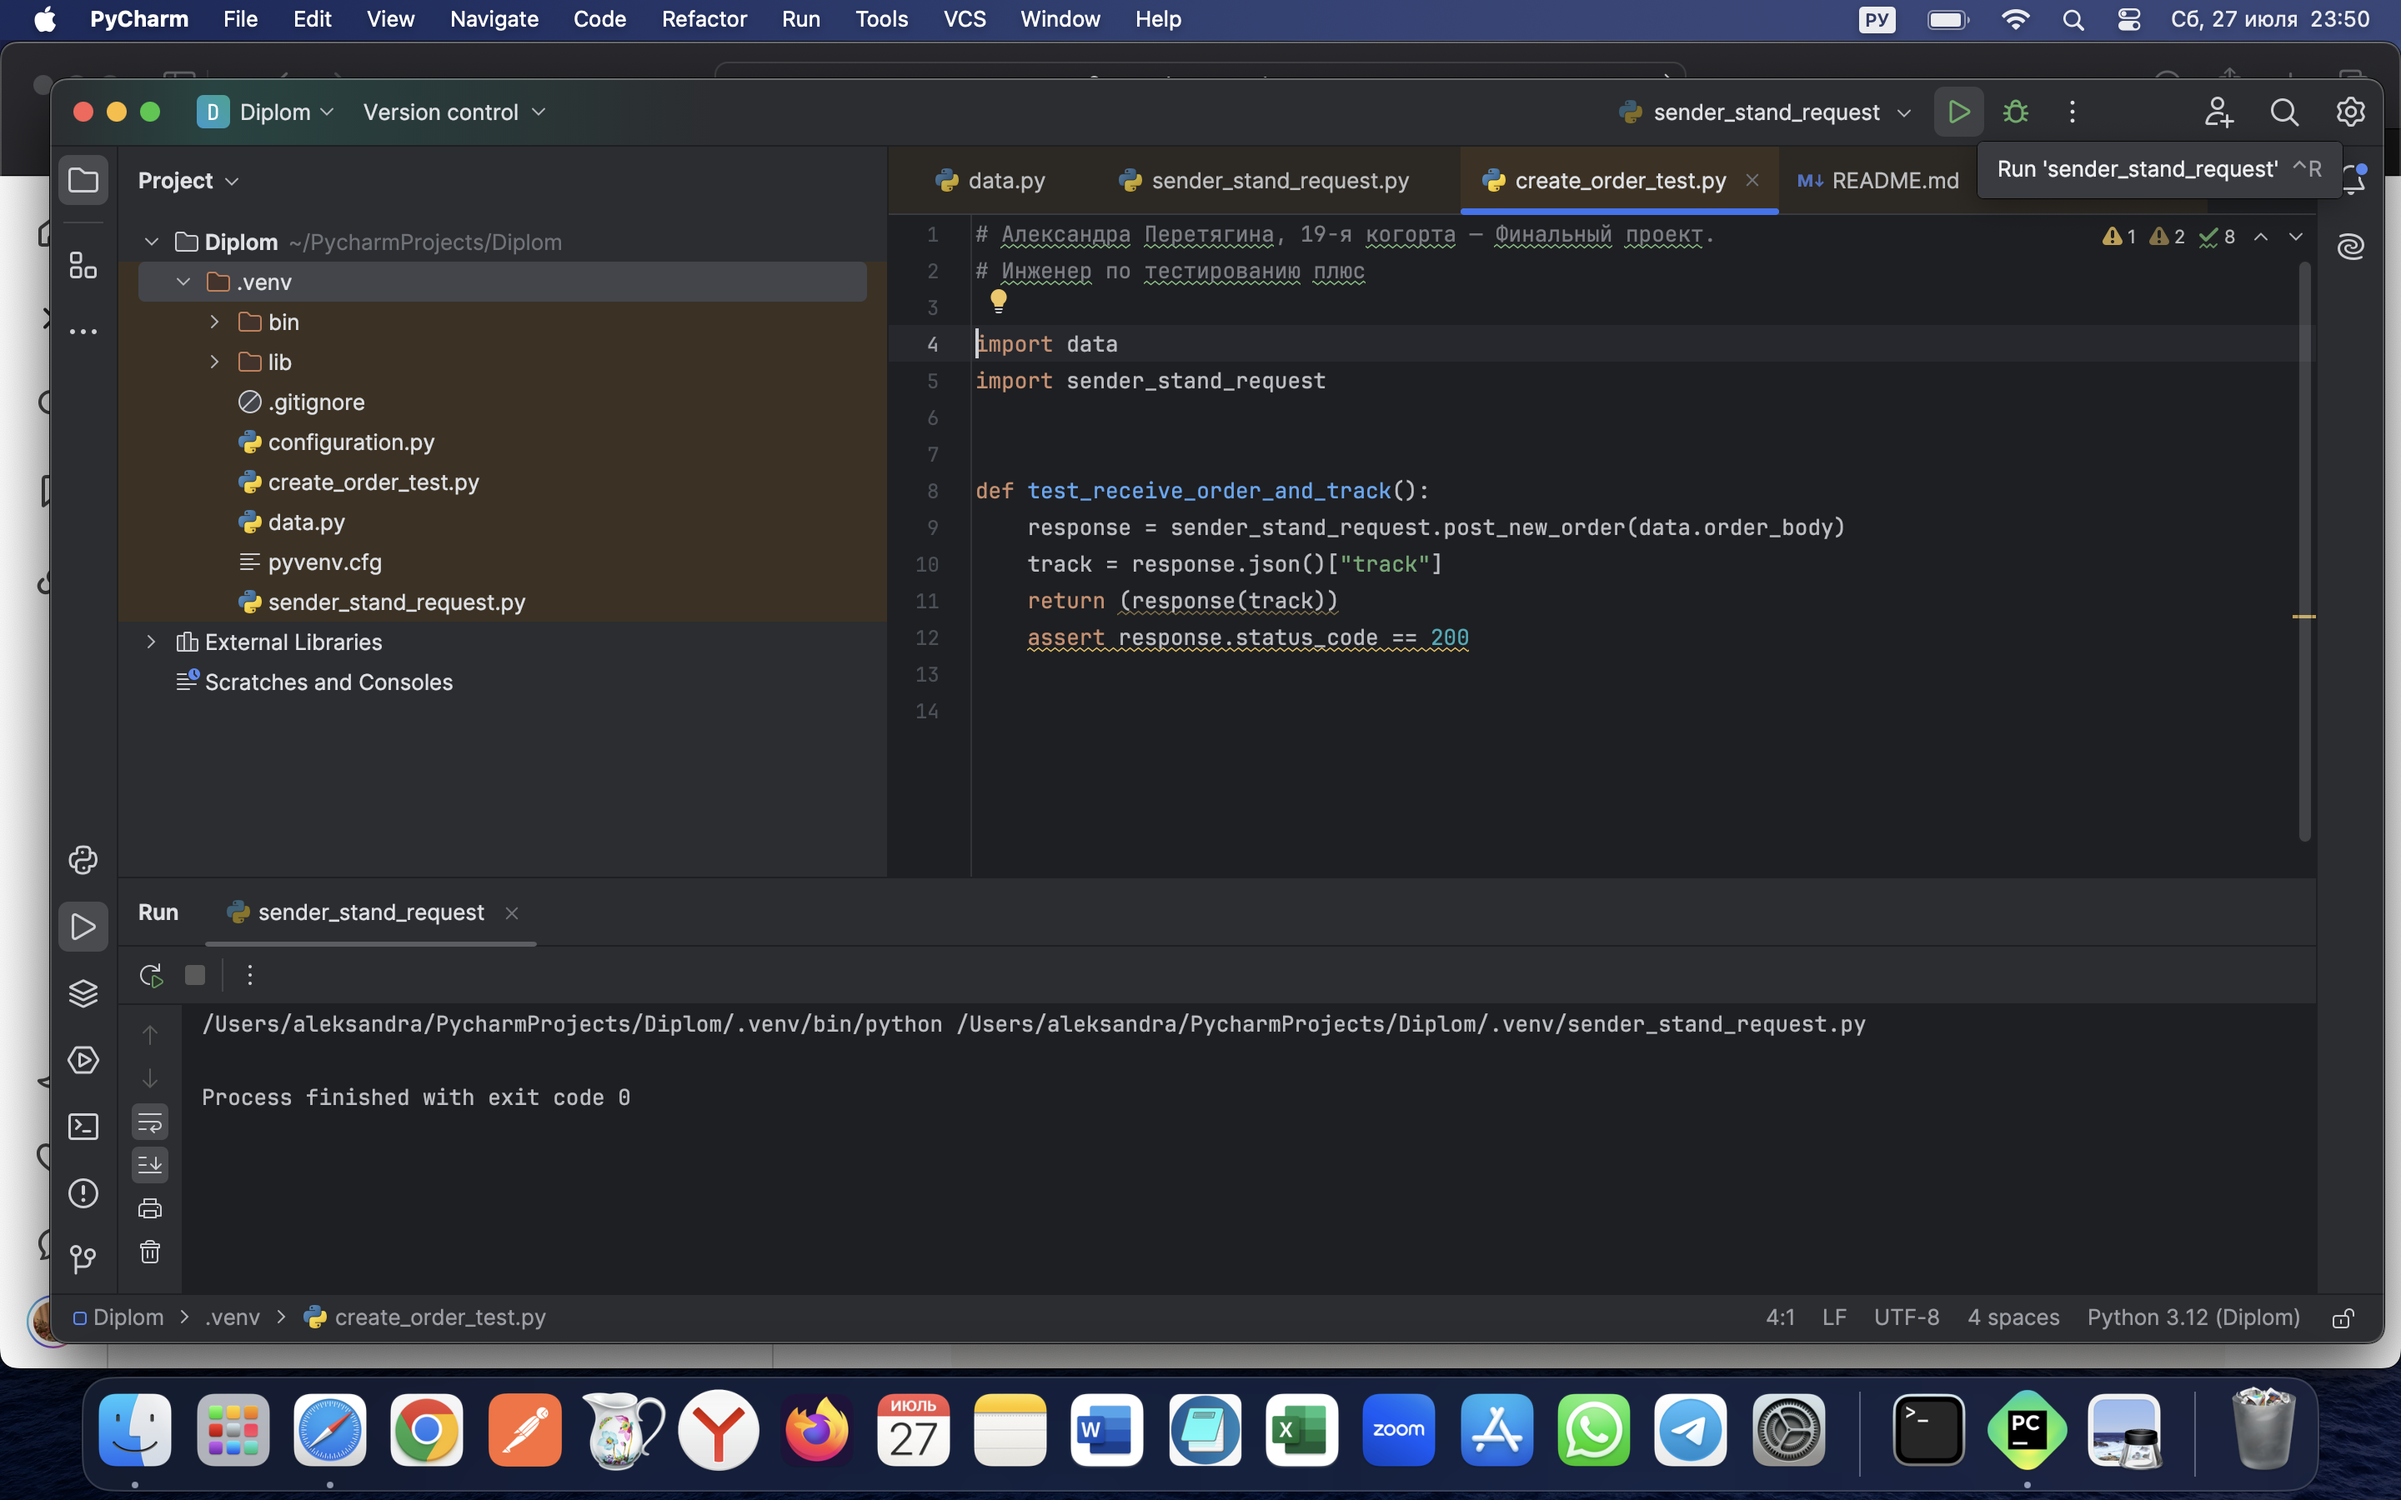
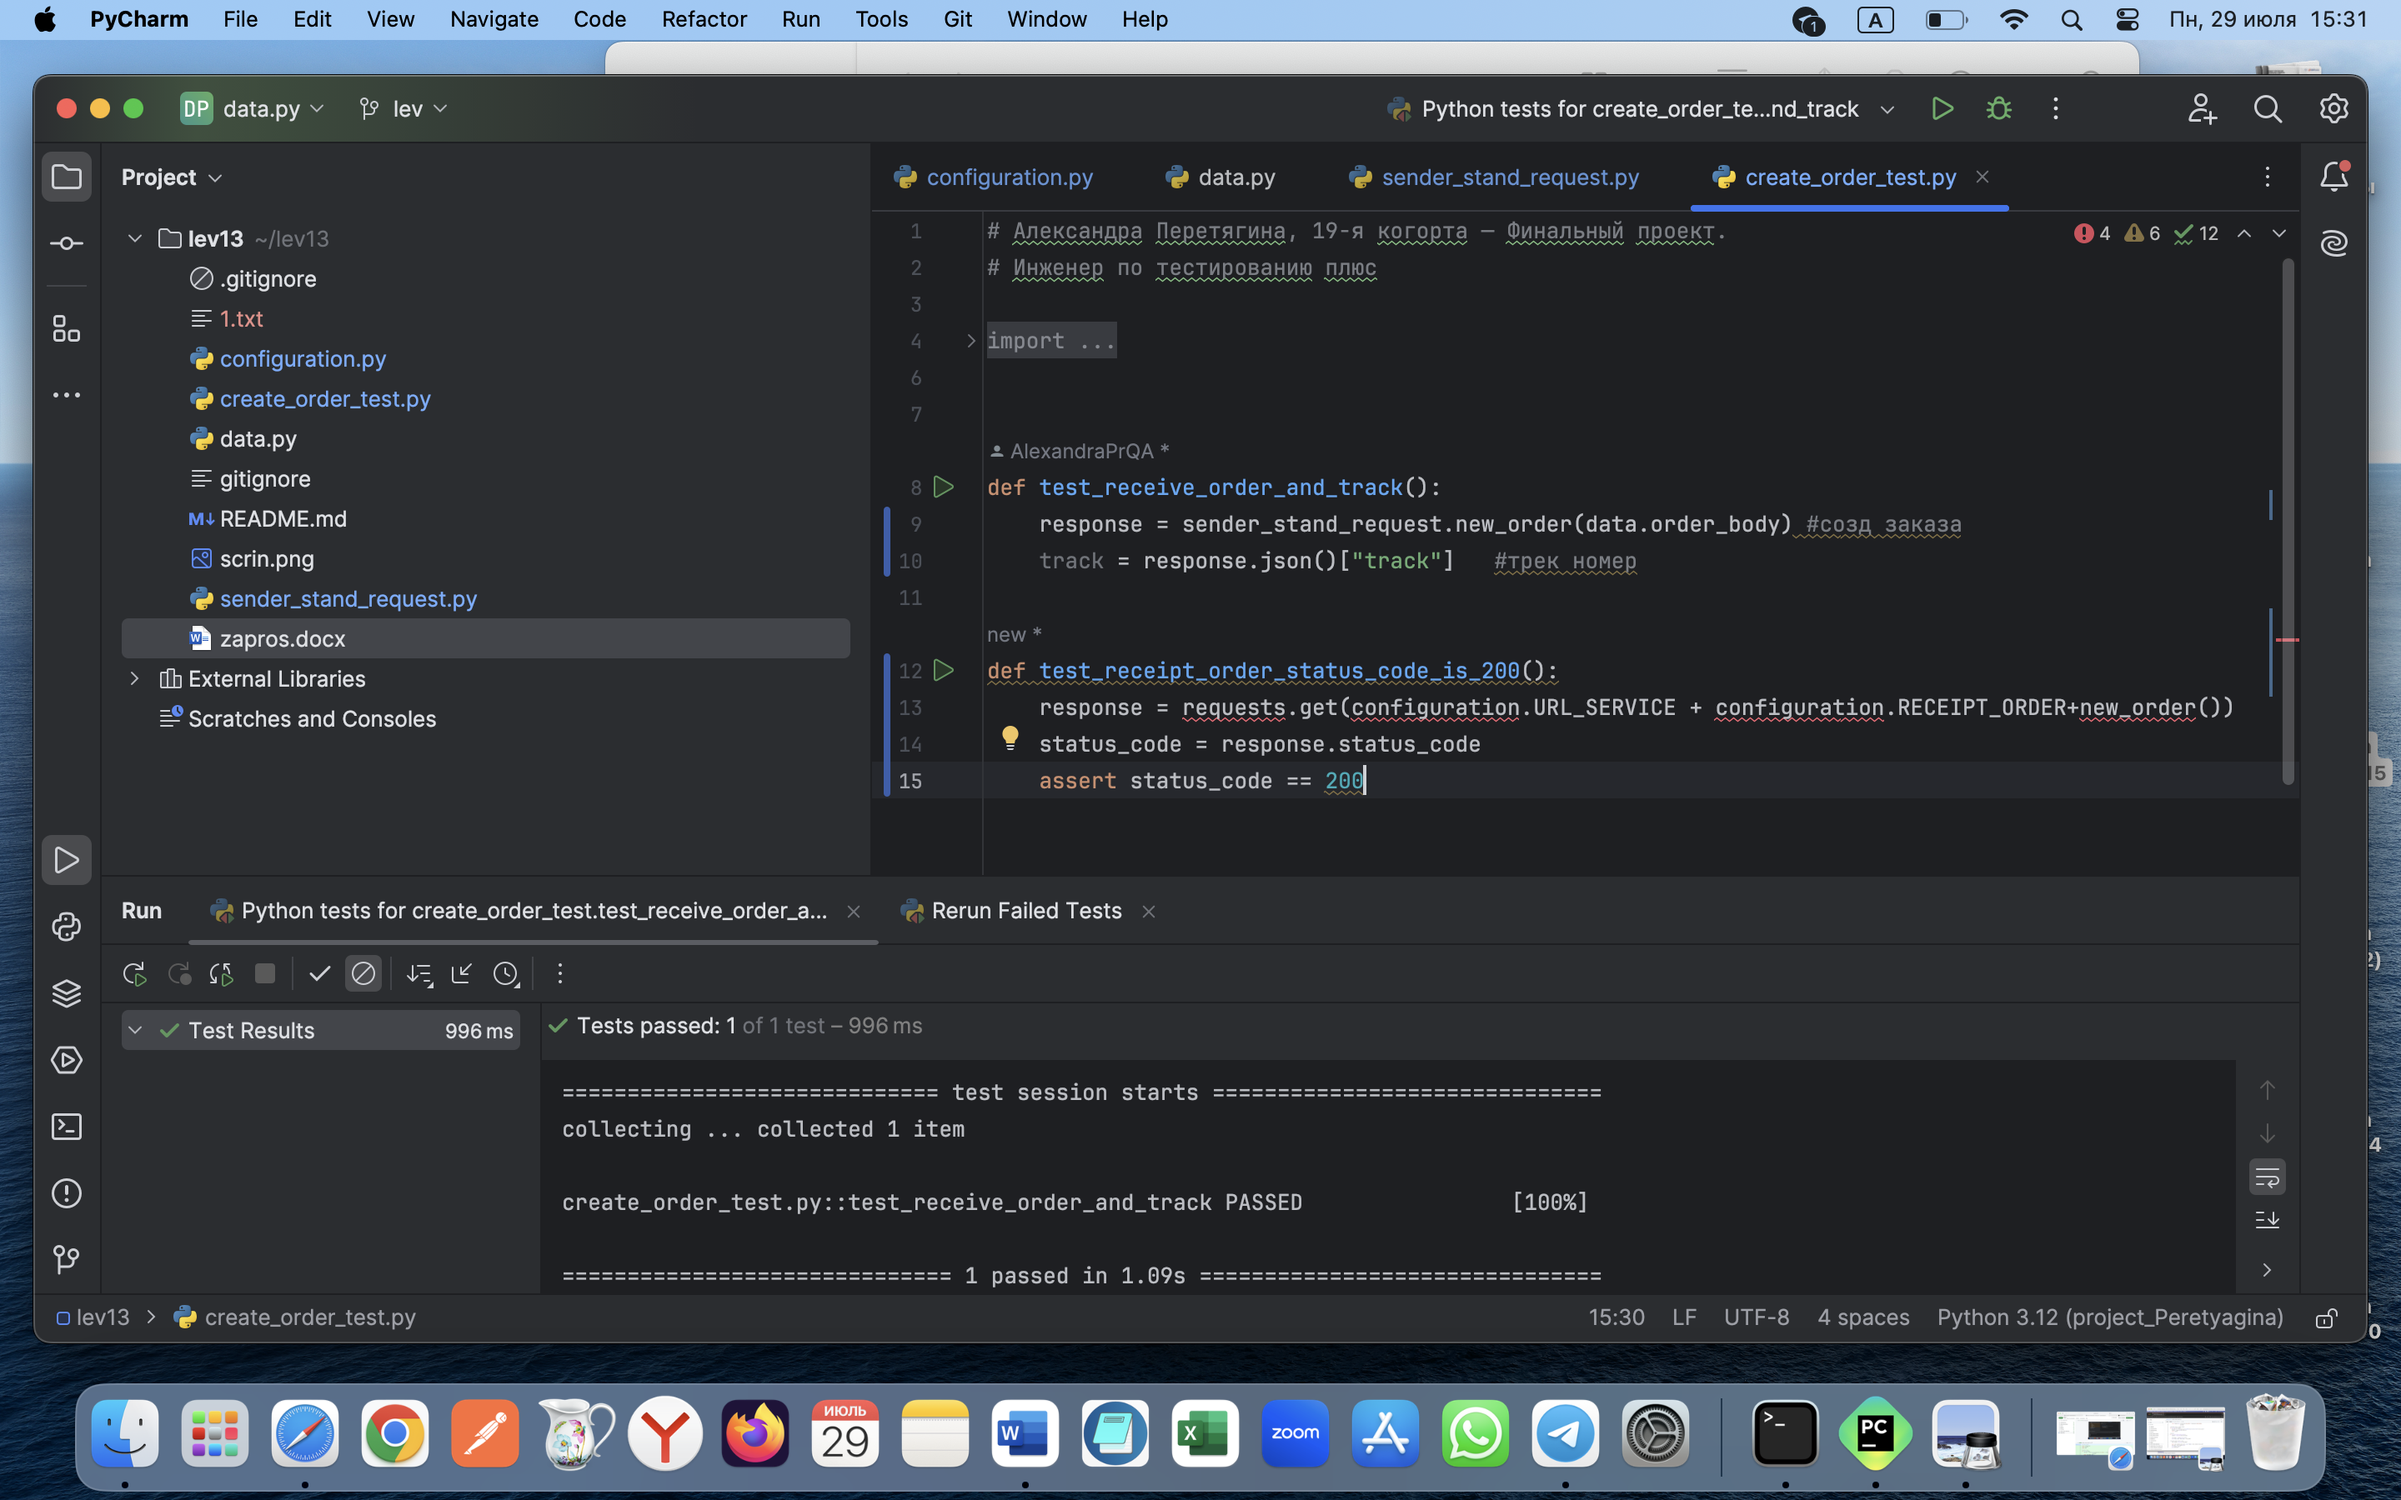
diplom2

diff --git a/create_order_test.py b/create_order_test.py
@@ -6,8 +6,10 @@ import sender_stand_request
 
 
 def test_receive_order_and_track():
-    response = sender_stand_request.post_new_order(data.order_body)
-    track = response.json()["track"]
-    return (response(track))
-    assert response.status_code == 200
+    response = sender_stand_request.new_order(data.order_body) #созд заказа
+    track = response.json()["track"]   #трек номер
 
+def test_receipt_order_status_code_is_200():
+    response = requests.get(configuration.URL_SERVICE + configuration.RECEIPT_ORDER+new_order())
+    status_code = response.status_code
+    assert status_code == 200

diff --git a/configuration.py b/configuration.py
@@ -1,4 +1,3 @@
-URL_SERVICE = "https://81732e86-dc8c-47ab-8df2-97e35f16ea9d.serverhub.praktikum-services.ru/"
-#DOC_PATH = "https://59c4947f-f0e2-4b17-a5fa-a447d8738a2d.serverhub.praktikum-services.ru/docs"
+URL_SERVICE = "https://94300146-ee63-4c66-99b7-24f1933210a0.serverhub.praktikum-services.ru/"
 CREATE_NEW_ORDER = "api/v1/orders"
-RECEIPT_ORDER = "api/v1/orders/track?t="
+RECEIPT_ORDER = "v1/orders/track?t="

diff --git a/sender_stand_request.py b/sender_stand_request.py
@@ -6,7 +6,7 @@ import data
 def new_order(body):
     new_order = requests.post(configuration.URL_SERVICE + configuration.CREATE_NEW_ORDER,
                          json=body)
-    return (new_order['track'])
+    return new_order
 
 
 #Получение заказа по треку

diff --git a/README.md b/README.md
@@ -1,1 +1,5 @@
 # lev13
+#Тесты на проверку создания заказа и выполнение запроса на получение заказа по треку.
+
+-Для запуска тестов должны быть установлены пакеты pytest и requests
+-Запуск всех тестов выполянется командой pytest
